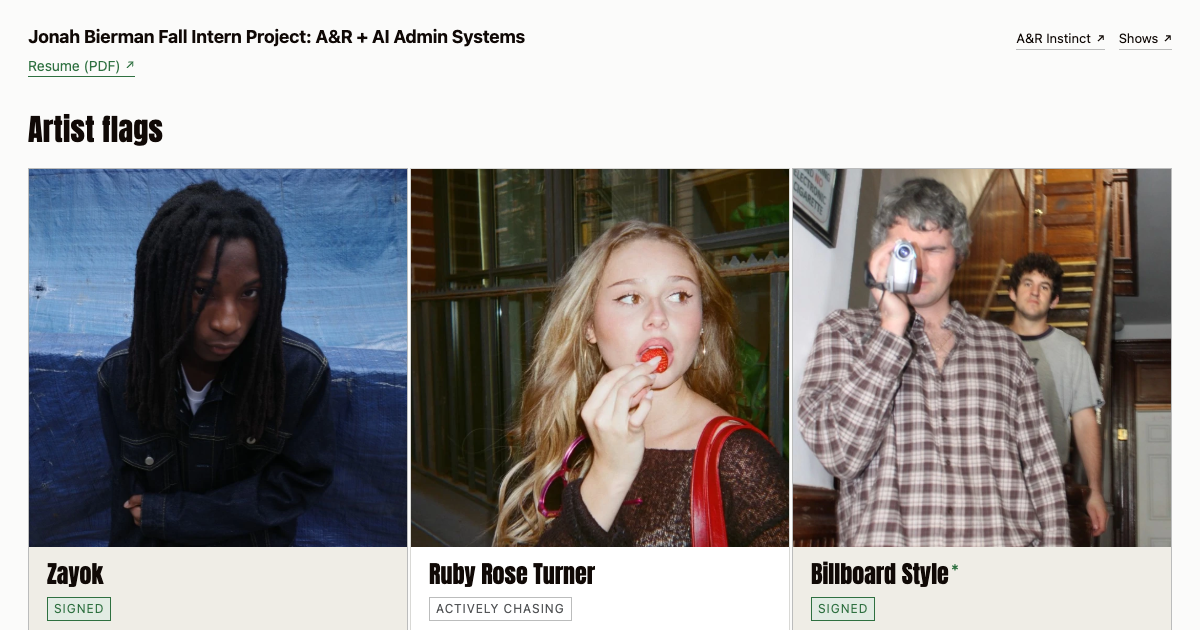
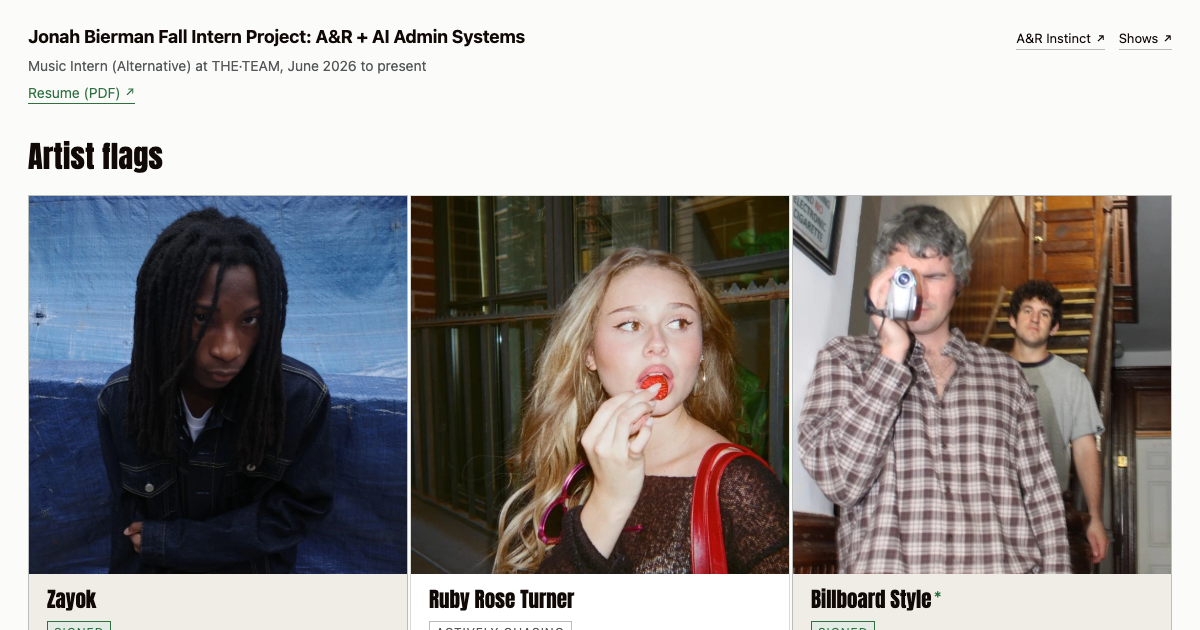
Role line, tool links, heading scale, search labels, full-width intake

diff --git a/index.html b/index.html
@@ -48,6 +48,7 @@
   }
   .mast .mark { margin: 0; font-family: var(--sans); font-weight: 700; font-size: 18px; line-height: 1.25; letter-spacing: -0.01em; }
   .mast-id { display: flex; flex-direction: column; gap: 6px; }
+  .mast .role { margin: 0; font-size: 14px; color: var(--muted); }
   .mast .resume { align-self: flex-start; font-size: 14px; color: var(--green); text-decoration: none; border-bottom: 1px solid var(--green); }
   .mast .resume:hover { color: var(--ink); border-bottom-color: var(--ink); }
   .mast p { margin: 0; font-size: 14px; color: var(--muted); max-width: 52ch; }
@@ -61,7 +62,10 @@
 
   .tool + .tool { margin-top: 40px; }
   .tool-head { margin-bottom: 12px; }
-  .tool-head h3 { margin: 0; font-family: var(--display); font-weight: 400; font-size: 21px; letter-spacing: 0.01em; line-height: 1.15; }
+  .tool-title { display: flex; flex-wrap: wrap; align-items: baseline; gap: 4px 14px; }
+  .tool-title a { font-size: 14px; color: var(--green); text-underline-offset: 3px; }
+  .tool-title a:hover { color: var(--ink); }
+  .tool-head h3 { margin: 0; font-family: var(--display); font-weight: 400; font-size: 26px; letter-spacing: 0.01em; line-height: 1.15; }
   .tool-head p { margin: 4px 0 0; font-size: 14px; color: var(--muted); }
   .panel-head { display: flex; flex-wrap: wrap; align-items: baseline; gap: 6px 20px; margin-bottom: 12px; }
   .panel-head h3 { position: absolute; width: 1px; height: 1px; overflow: hidden; clip: rect(0 0 0 0); white-space: nowrap; }
@@ -122,6 +126,7 @@
   .screen table.rs td.low { color: var(--green); font-weight: 600; }
   @media (max-width: 520px) { .screen table.rs th:last-child, .screen table.rs td:last-child { display: none; } }
   .screen-foot .jump { margin: 0 6px 0 0; }
+  .srch-l { font-size: 13px; color: var(--ink); }
   .bar-note { font-size: 12px; color: var(--muted); }
   #ar-filters { padding-block: 8px; }
   .spark { vertical-align: middle; margin: 0 5px; }
@@ -181,7 +186,7 @@
   .pitch-list a.card:focus-visible { outline-offset: 4px; }
   .pitch-list img { display: block; width: calc(100% + 36px); max-width: none; margin: -16px -18px 14px; aspect-ratio: 1 / 1; height: auto; object-fit: cover; background: var(--grey1); }
   @media (max-width: 760px) { .pitch-list img { aspect-ratio: 4 / 3; } }
-  .pitch-list .who { display: block; font-family: var(--display); font-size: 24px; line-height: 1.1; white-space: normal; }
+  .pitch-list .who { display: block; font-family: var(--display); font-size: 21px; line-height: 1.1; white-space: normal; }
   .pitch-list .st { display: inline-block; margin-top: 10px; font-size: 12px; letter-spacing: 0.08em; text-transform: uppercase; padding: 2px 6px; border: 1px solid var(--green); color: var(--green); background: var(--tint); }
   .pitch-list li.done { background: #efede6; border-color: var(--grey4); }
   .pitch-list .st.prog { border-color: var(--grey4); color: var(--muted); background: none; }
@@ -191,20 +196,20 @@
   .pitch-list .how { display: block; margin-top: 4px; font-size: 14px; color: var(--muted); }
 
   /* routing engine */
-  .it-grid { display: grid; grid-template-columns: minmax(0, 1fr) minmax(0, 1fr); gap: 32px; align-items: start; margin-bottom: 20px; }
-  @media (max-width: 760px) { .it-grid { grid-template-columns: 1fr; gap: 20px; } }
-  .it-intake { background: #efede6; padding: 14px 16px 10px; }
-  .it-cap { font-size: 13px; font-weight: 600; color: var(--ink); margin-bottom: 6px; }
-  .it-form { margin: 0; display: block; }
-  .it-form > div { display: grid; grid-template-columns: 9.5rem minmax(0, 1fr); gap: 12px; padding: 7px 0; border-top: 1px solid #dedad0; font-size: 13px; }
-  .it-form dt { color: var(--muted); }
-  .it-form dt span { color: var(--grey7); margin-left: 4px; }
+  .it-intake { background: #efede6; padding: 12px 16px; margin-bottom: 16px; }
+  .it-cap { font-size: 13px; font-weight: 600; color: var(--ink); margin-bottom: 8px; }
+  .it-form { margin: 0; display: grid; grid-template-columns: repeat(5, minmax(0, 1fr)) minmax(0, 2fr); border-top: 1px solid #dedad0; }
+  .it-form > div { padding: 8px 12px 8px 0; font-size: 13px; min-width: 0; }
+  .it-form > div + div { padding-left: 12px; border-left: 1px solid #dedad0; }
+  .it-form dt { color: var(--muted); font-size: 12px; margin-bottom: 2px; }
   .it-form dd { margin: 0; color: var(--ink); }
-  .it-form dd.empty { color: var(--grey7); }
-  .it-out p { margin: 0 0 4px; font-size: 13px; font-weight: 600; }
-  .it-out ul { list-style: none; margin: 0; padding: 0; }
-  .it-out li { font-size: 14px; padding: 8px 0; border-top: 1px solid var(--grey1); }
-  .it-out li:last-child { border-bottom: 1px solid var(--grey1); }
+  .it-back { margin: 8px 0 0; padding-top: 8px; border-top: 1px solid #dedad0; font-size: 13px; color: var(--muted); }
+  @media (max-width: 900px) {
+    .it-form { grid-template-columns: repeat(3, minmax(0, 1fr)); }
+    .it-form > div { border-left: 0 !important; padding-left: 0 !important; border-bottom: 1px solid #dedad0; }
+    .it-form .wide { grid-column: 1 / -1; }
+  }
+  @media (max-width: 500px) { .it-form { grid-template-columns: repeat(2, minmax(0, 1fr)); } }
   .pipe { --pbg: #15120f; --pline: #3b362f; --pdim: #9a958c; --pfg: #f3efe6; --pacc: #7fc28f;
     background: var(--pbg); color: var(--pfg); font-family: var(--sans); }
   .pipe-top, .pipe-foot { display: flex; justify-content: space-between; gap: 12px; padding: 10px 16px; font-size: 12px; color: var(--pdim); letter-spacing: 0.04em; }
@@ -288,6 +293,7 @@
   <header class="mast">
     <div class="mast-id">
       <h1 class="mark">Jonah Bierman Fall Intern Project: A&amp;R + AI Admin Systems</h1>
+      <p class="role">Music Intern (Alternative) at THE·TEAM, June 2026 to present</p>
       <a class="resume" href="jonah-bierman-resume.pdf" target="_blank" rel="noopener">Resume (PDF) <svg class="ico" viewBox="0 0 12 12" aria-hidden="true"><path d="M4 2.5h5.5V8M9.5 2.5 2.5 9.5" fill="none" stroke="currentColor" stroke-width="1.4"/></svg></a>
     </div>
     <nav>
@@ -344,7 +350,7 @@
         <div class="cities" id="sh-cities"></div>
         <div class="bar tight">
           <button id="sh-nosup" class="ghost" type="button" aria-pressed="false">No support only</button>
-          <input type="search" id="sh-q" placeholder="Search artist or venue" aria-label="Search shows by artist or venue">
+          <label class="srch-l" for="sh-q">Search</label><input type="search" id="sh-q" placeholder="Artist or venue">
         </div>
         <div id="sh-list"></div>
         <div class="screen-foot" id="sh-foot"></div>
@@ -352,10 +358,9 @@
     </div>
 
     <div id="p-it" class="tool">
-      <div class="it-grid">
-        <div class="it-intake" aria-label="Example intake form, not interactive">
-          <div class="it-cap">Example intake</div>
-          <dl class="it-form">
+      <div class="it-intake" aria-label="Example intake form, not interactive">
+        <div class="it-cap">Example intake</div>
+        <dl class="it-form">
             <div><dt>Artist</dt><dd>Dillom</dd></div>
             <div><dt>Starting capacity</dt><dd>250</dd></div>
             <div><dt>Target venue</dt><dd>Brooklyn Paramount (2,700)</dd></div>
@@ -363,14 +368,7 @@
             <div><dt>Festival targets</dt><dd>Lollapalooza, ACL</dd></div>
             <div class="wide"><dt>Constraints</dt><dd>17 locked dates, Thu to Sat preferred, no Mondays</dd></div>
           </dl>
-        </div>
-        <div class="it-out">
-          <p>What comes back:</p>
-          <ul>
-            <li>Venues picked from similar artists' past tours</li>
-            <li>Writing, recording and press weeks built in</li>
-          </ul>
-        </div>
+        <p class="it-back">What comes back: venues picked from similar artists' past tours, with writing, recording and press weeks built in.</p>
       </div>
 
       <div class="pipe" id="pipe" role="figure" aria-label="How the routing engine works: an agent pipeline">
@@ -465,17 +463,19 @@ var ANN = [{"c": "New York", "d": "2027-05-14", "t": "19:00", "h": "76th Street"
     panel.hidden = false;
     var head = document.createElement("div");
     head.className = "tool-head";
-    head.innerHTML = "<h3>"+esc(t[1])+"</h3><p>"+esc(t[2])+"</p>";
+    var LINK={ar:"https://ilovemyphone30000.github.io/instinct/", sh:"https://ilovemyphone30000.github.io/nyc-shows/"};
+    head.innerHTML = "<div class='tool-title'><h3>"+esc(t[1])+"</h3>"+(LINK[t[0]]?"<a href='"+LINK[t[0]]+"' target='_blank' rel='noopener'>Open the tool "+"<svg class=\"ico\" viewBox=\"0 0 12 12\" aria-hidden=\"true\"><path d=\"M4 2.5h5.5V8M9.5 2.5 2.5 9.5\" fill=\"none\" stroke=\"currentColor\" stroke-width=\"1.4\"/></svg>"+"</a>":"")+"</div><p>"+esc(t[2])+"</p>";
     panel.insertBefore(head, panel.firstChild);
   });
 
-  var ROWS = 4, arQ = "";
+  var ROWS = 4, arQ = "", arNarrow = window.matchMedia("(max-width: 700px)");
+  if (arNarrow.addEventListener) arNarrow.addEventListener("change", function(){ drawAR(); });
   var arFilters=document.getElementById("ar-filters"), arBody=document.getElementById("ar-body"), arFoot=document.getElementById("ar-foot");
   var arQi=document.createElement("input");
-  arQi.type="search"; arQi.id="ar-q"; arQi.placeholder="Artist or outlet";
-  arQi.setAttribute("aria-label","Search artists, press or playlists");
+  arQi.type="search"; arQi.id="ar-q"; arQi.placeholder="Artist, press or playlist";
   arQi.addEventListener("input", function(e){ arQ=e.target.value.toLowerCase(); drawAR(); });
-  arFilters.appendChild(arQi);
+  var arQl=document.createElement("label"); arQl.className="srch-l"; arQl.htmlFor="ar-q"; arQl.textContent="Search";
+  arFilters.appendChild(arQl); arFilters.appendChild(arQi);
   var arNote=document.createElement("span"); arNote.className="bar-note"; arNote.textContent="Live rows, Nov 19"; arFilters.appendChild(arNote);
 
   function arMatch(r) {
@@ -485,7 +485,7 @@ var ANN = [{"c": "New York", "d": "2027-05-14", "t": "19:00", "h": "76th Street"
       (r.pl||[]).map(function(p){return p.t;})).join(" ").toLowerCase().indexOf(arQ) > -1;
   }
   function drawAR() {
-    var all=AR.filter(arMatch).sort(function(x,y){return (x.ag?1:0)-(y.ag?1:0);}), rows=all.slice(0,5);
+    var all=AR.filter(arMatch).sort(function(x,y){return (x.ag?1:0)-(y.ag?1:0);}), rows=all.slice(0, arNarrow.matches ? 3 : 5);
     arBody.innerHTML="";
     rows.forEach(function (r) {
       var tr=document.createElement("tr");
